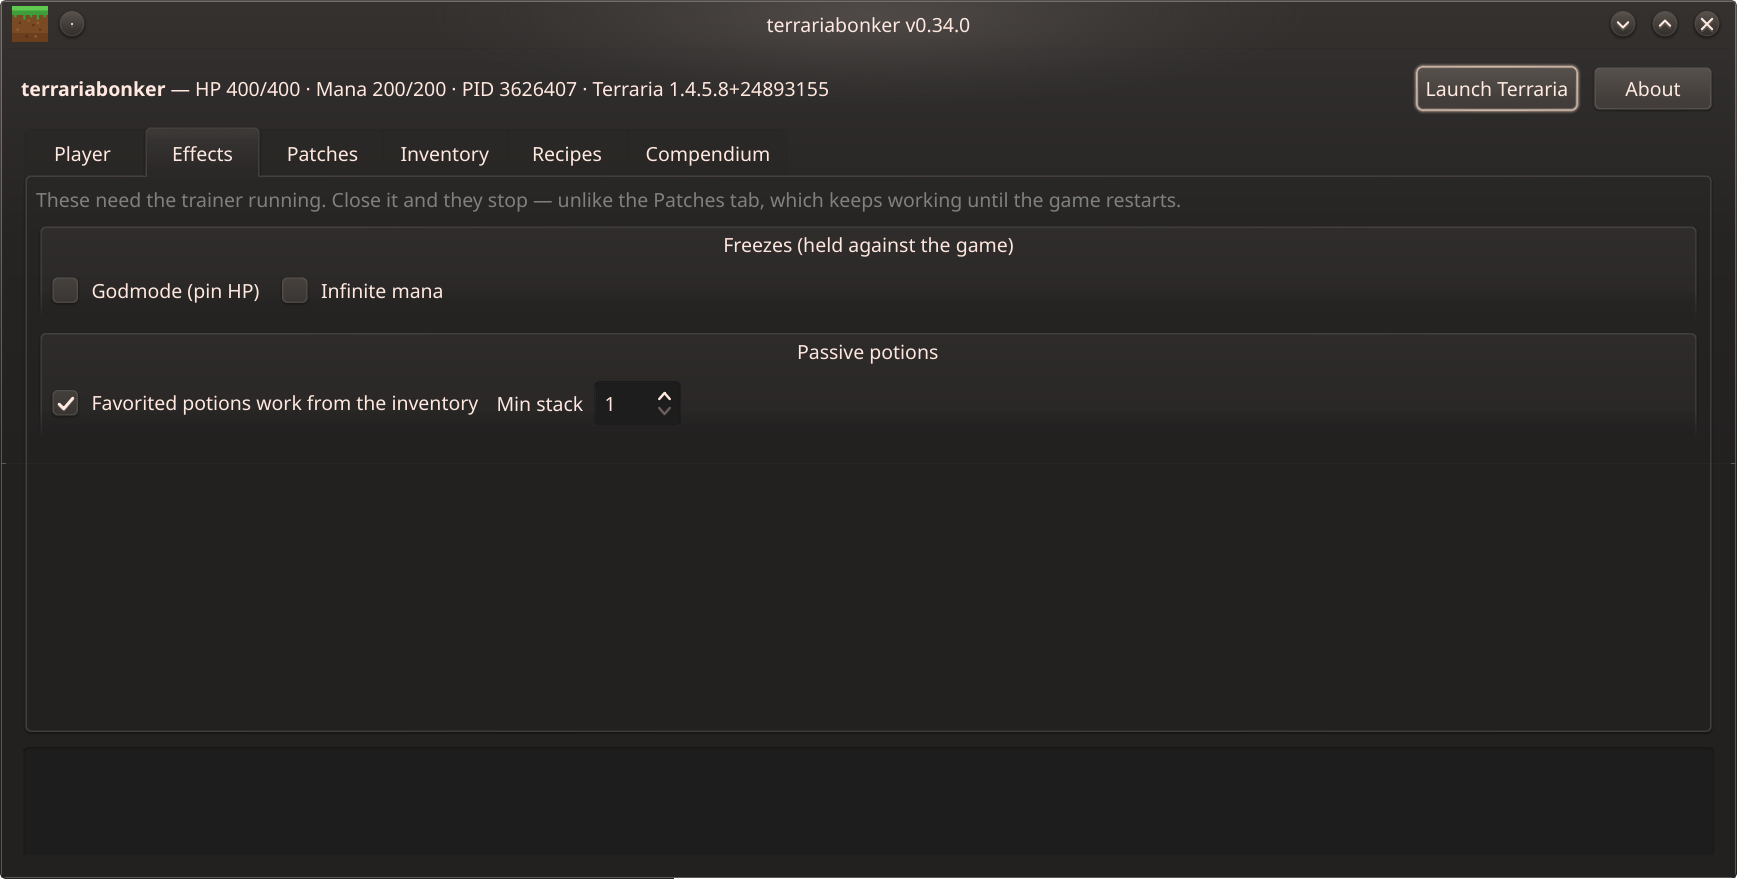
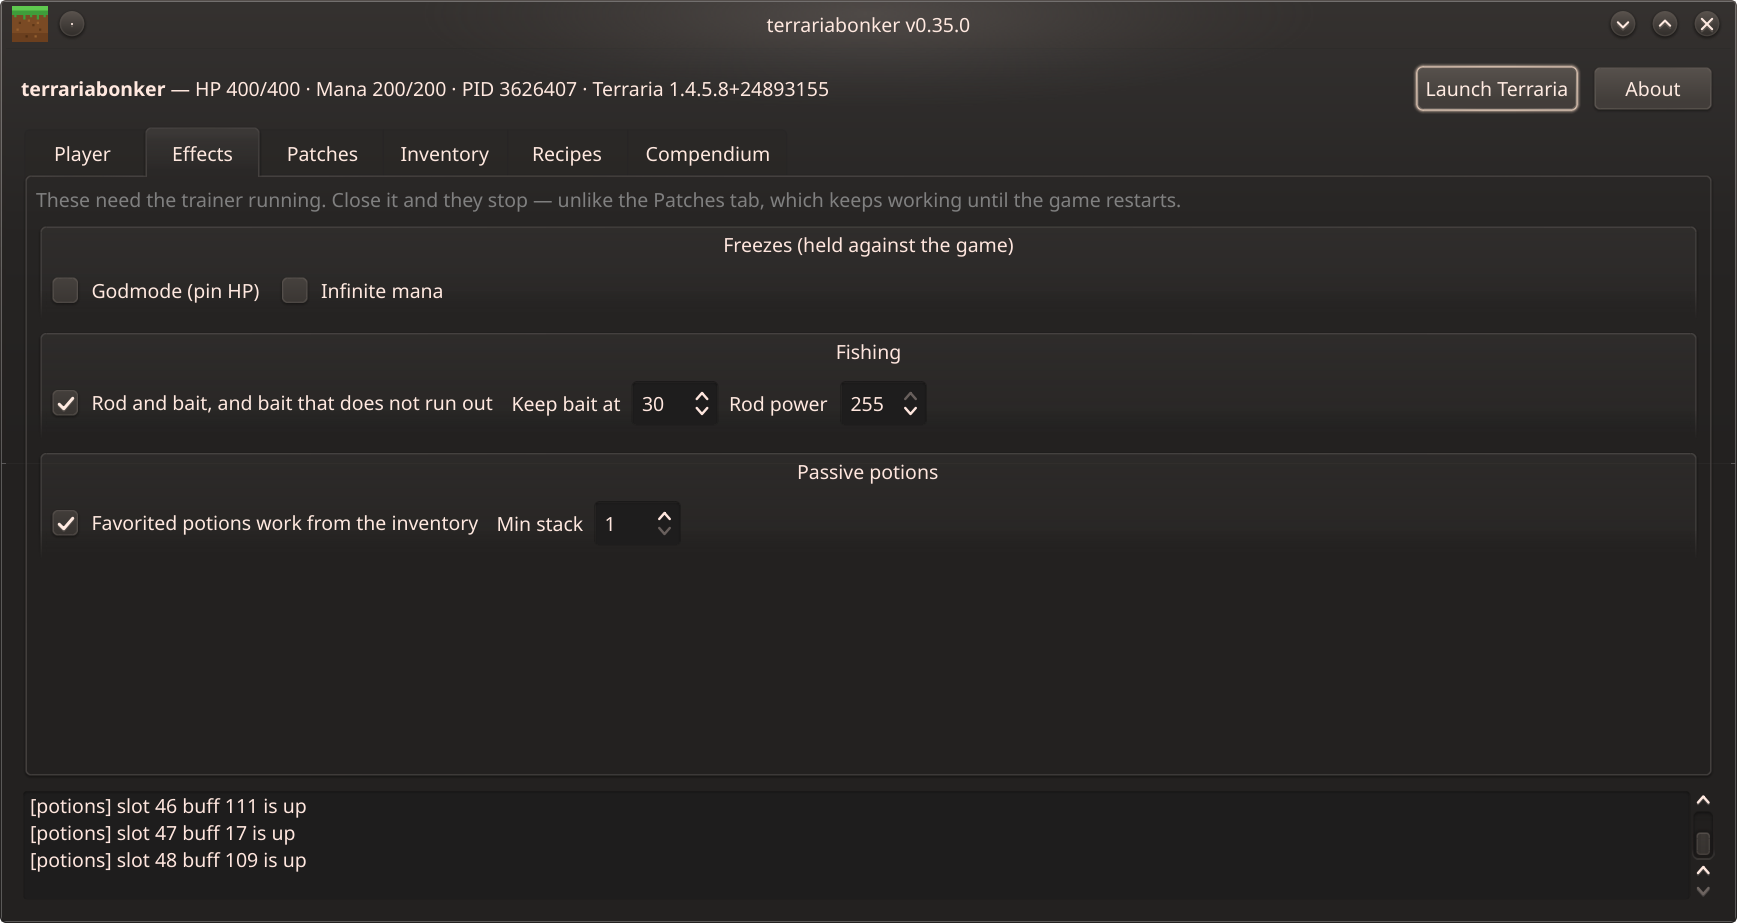
chore(release): v0.35.0 — fishing
A rod and bait if you have none, bait that does not run out, and a rod power that
makes fish bite about once a second and is put back when you switch off. Spec 042,
all nine criteria verified against the running game.

Built entirely from data the game already stores: Item.fishingPole (0x58),
Item.bait (0x5C) and Projectile.bobber (0x88), each checked against the game's own
numbers. No anchor, no stub, nothing in the build ledger.

Insta-fishing was dropped as a separate cheat because it is not one. Bite rate
follows fishing power -- a bite a second at 255 against a trickle at 30, which is
what the published counter formula predicts -- so two toggles would have invented
a distinction the game does not have.

Rod power is the only thing here written into the save, so the original is
recorded on disk before the rod is raised, and the panel restores anything owed on
its next start. A trainer killed mid-cheat leaves a spare record rather than an
unrecoverable rod.

476 tests, flake8 clean, deps unchanged. Effects screenshot recaptured. Report in
validation-reports/.

diff --git a/terrariabonker/__init__.py b/terrariabonker/__init__.py
@@ -10,4 +10,4 @@ from terrariabonker.player import Player  # noqa: F401
 from terrariabonker.proc import Mem, ProcError, find_pid  # noqa: F401
 from terrariabonker.trainer import Freezer  # noqa: F401
 
-__version__ = "0.34.0"
+__version__ = "0.35.0"

diff --git a/validation-reports/2026-08-25-v0.35.0.md b/validation-reports/2026-08-25-v0.35.0.md
@@ -1,0 +1,117 @@
+# Validation Report — terrariabonker v0.35.0
+
+**Date**: 2026-08-25
+**Scope**: Fishing (spec 042) — a rod and bait if you have none, bait that does not run
+out, and a rod power that makes fish bite about once a second and is put back when the
+cheat goes off.
+
+## Summary
+
+One new cheat, built entirely from data the game already stores. No anchor, no hook site,
+no stub, nothing in the build ledger — the same shape as passive potions in v0.34.0, and
+for the same reason: if a value can be read and written, there is no need to patch code to
+change it.
+
+The interesting part of this release is not the feature, it is how much of it was decided
+by measurement rather than by design, and how often the measurement was wrong first.
+
+## The part worth reading
+
+**Three offsets, each verified against the game's own numbers.** `Item.fishingPole`
+(`+0x058`) is carried by exactly seven items and every one is a rod, with the values the
+game shows: Golden 50, Hotline 45, Sitting Duck's 40, Mechanic's 35, Fiberglass 30, Scarab
+30, Chum Caster 25. `Item.bait` (`+0x05C`) is carried by thirteen items and no rods.
+`Projectile.bobber` (`+0x088`) is true for 19 of 1100 projectile templates, including every
+bobber the seven rods fire.
+
+**A cheat was cancelled because it turned out not to exist.** The spec began with three
+features; insta-fishing was the third. Hunting the "catch counter" that the community wiki
+describes found nothing: not on the Player across `statLife ± 0x1200`, and not on the
+bobber across its first `0x600` bytes as int or as float. One candidate at `statLife-0x49C`
+looked convincing — it climbed and reset eight times in forty seconds, always with a line
+in the water — and was killed by the obvious control: it keeps ticking with no line in the
+water at all. The correlation existed only because the bobber happened to be out for the
+whole sample.
+
+Then the arithmetic made the search unnecessary. The published counter gains
+`fishingPower / 30` per tick and fires at 660: at power 30 that is ~4.4 s between bites, at
+255 it is ~1.1 s. The maintainer had already measured "a bite each second" at 255 and a
+trickle at 30. **Insta-fishing and fishing power are the same lever**, so shipping two
+toggles would have invented a distinction the game does not have.
+
+**Two instruments were wrong before either gave an answer.** A probe reported zero catches
+in ninety seconds while the player was demonstrably catching fish — bait fell 30 → 23 and
+seven fish were in the bag afterwards. And a write of `fishingPole = 255` silently missed
+because the rod's address had been cached from an earlier read and mono's GC had moved the
+object; the script printed `fishingPole was 0` where 30 was expected and carried on
+regardless. **Locate an item by identity on every access, and treat an unexpected
+pre-value as a reason to abort.** Spec 038 already exists for the first half of that lesson.
+
+In both cases the correction came from the maintainer watching the screen, not from the
+tooling. On a live-memory project that is worth leaning on.
+
+## Tests
+
+476 pass (`pytest`, headless, against the synthetic memory image — no game, no root). Up
+from 463 at the last tag.
+
+Every new test was mutation-checked. Three mutations **survived** at first and forced
+better tests:
+
+| Mutation | Outcome |
+|---|---|
+| GUI never asks for the kit | survived — nothing checked the panel's first-round argv; test added |
+| rod written before its original is recorded | survived — the crash-safety ordering was untested; test added that makes the record fail |
+| `min_stack` accepted and dropped by the service | survived (v0.34.0 work) — test added |
+| kit hands out a rod regardless of what you carry | caught |
+| only the first low bait stack topped up | caught |
+| `remember_rod_power` overwrites an existing record | caught |
+| restore keyed by slot instead of item type | caught |
+| switching the cheat off does not restore | caught |
+| startup does not restore | caught |
+| power spinner ignored | caught |
+
+## In-game verification
+
+All nine acceptance criteria on spec 042, on 1.4.5.8+24893155:
+
+- The kit works: the maintainer threw their rod away, ticked the cheat, and was handed a
+  Golden Fishing Rod. Run against a player who already had gear it gave nothing.
+- Bait held: two stacks topped in one round (15 → 30, 3 → 30) and held through continuous
+  fishing.
+- **One catch a second at power 255**, against a trickle at the same rod's own 50.
+- **The rod was put back**: it reads 50 again, not 255, and the profile has no pending
+  restore left — checked by reading memory, not by eye.
+
+## Security review (Phase 5)
+
+- No `eval`/`exec`, no `subprocess`, no sockets, no network calls in shipped code.
+- No hardcoded credentials.
+- Dependencies unchanged since v0.34.0, so `pip-audit` was not re-run.
+- Writes stay inside the player's own process: a byte per rod, a stack per bait, and the
+  items the kit gives. One new file is written outside the game — the record of each rod's
+  original power, in the existing profile JSON under the user's config directory.
+
+## Release safety
+
+- **Rollback**: `git revert` or check out the previous tag. Nothing is patched.
+- **The one lasting change is by design and is reversible in the program**: rod power is
+  written into the save. Its original is recorded on disk *before* the rod is written, so
+  a trainer killed mid-cheat leaves a spare record rather than an unrecoverable rod, and
+  the panel restores anything owed on its next start.
+- Everything else evaporates when the trainer closes. Given items and topped-up bait stay,
+  as any given item does.
+
+## Known gaps
+
+- **Auto-catch is not built.** Reeling in is still a manual click. The spec records the
+  maintainer's suggested route — drive the player's generic use-item control rather than
+  the fishing path — a candidate at `statLife-0x00c6` that holds while the button is down,
+  and the fact that writing it did not cast a line. Two explanations are recorded, and the
+  next experiment named, rather than one being guessed at.
+- **The 125-vs-255 ceiling was never A/B tested.** 255 is shipped on the maintainer's call
+  and on evidence that it out-fishes what a 125 cap would allow, but the controlled
+  comparison was not run.
+- **Item offsets are build-specific** and would need re-deriving after a game update.
+  Nothing goes in the build ledger because that records anchors and this cheat patches no
+  code; `docs/item-fields.md` records how the offsets were found.

diff --git a/README.md b/README.md
@@ -14,7 +14,7 @@ side in order to re-derive patch offsets after a game update. See
 *This edits your own single-player game in memory. It writes nothing to disk and
 holds no state.*
 
-![Effects tab: the freezes for godmode and infinite mana, and passive potions switched on with a minimum stack size of 1, above a note that these need the trainer running while the Patches tab keeps working until the game restarts](assets/screenshot-effects.png)
+![Effects tab: the freezes for godmode and infinite mana; a Fishing group switched on with bait kept at 30 and rod power 255; and passive potions switched on with a minimum stack of 1 — above a note that these need the trainer running while the Patches tab keeps working until the game restarts](assets/screenshot-effects.png)
 
 ![Patches tab: the Build group of code patches, all ticked, with their per-patch values — mining speed, placement reach, multiple pylons, fast placement, tool and interaction reach, smart-cursor radius, and the ore extractor set to sweep ores and gems](assets/screenshot-patches.png)
 
